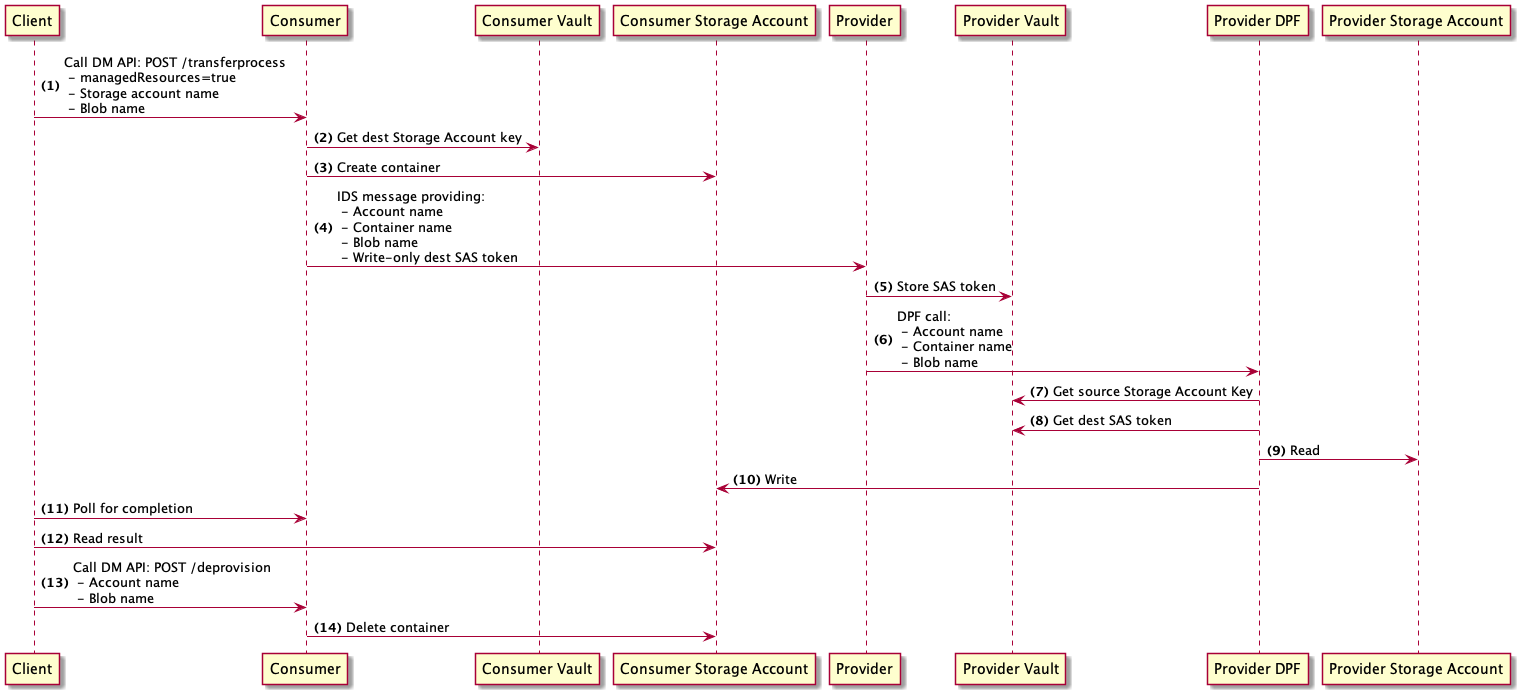
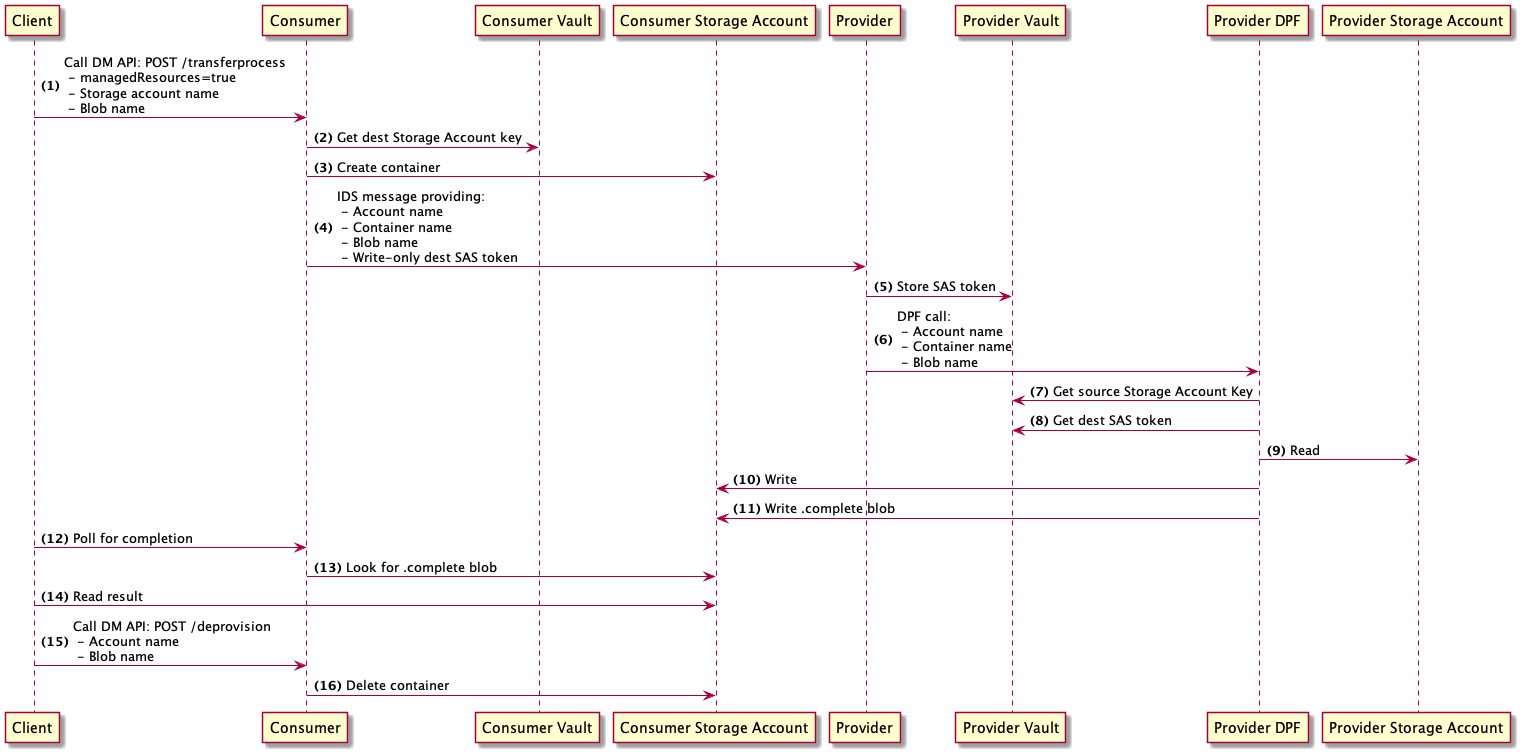
Added .complete to sequence diagram.

diff --git a/docs/developer/decision-records/2022-04-21-dpf-blob-data-transfer/README.md b/docs/developer/decision-records/2022-04-21-dpf-blob-data-transfer/README.md
@@ -30,8 +30,9 @@ after the client triggered the data deletion.
 9. The Provider DPF reads the data that needs to be transfered. The [AzureStorageDataSource](../../../../extensions/azure/data-plane/storage/src/main/java/org/eclipse/dataspaceconnector/azure/dataplane/azurestorage/pipeline/AzureStorageDataSource.java) provides the source data stream.  
 10. The Provider DPF writes the data to the destination blob so that the consumer can access the data.
 The [AzureStorageDataSink](../../../../extensions/azure/data-plane/storage/src/main/java/org/eclipse/dataspaceconnector/azure/dataplane/azurestorage/pipeline/AzureStorageDataSink.java) transfers the data to the blob destination.
-When the transfer is finished, the Provider DPF needs to write a blob called `.complete`.  
-11. In the meantime, the client polls the transfer status regularly on the consumer endpoint `/transferprocess/<PROCESS_ID>/state`. To determine if the transfer is completed, the consumer checks if a blob named `.complete` exists in the container.  
-12. When the transfer is finished, the client can read the blob.  
-13. Then, the client can call the Data Management API to destroy the data.  
-14. Consumer deletes the container containing the blob. The [ObjectStorageProvisioner](../../../../extensions/azure/blobstorage/blob-provision/src/main/java/org/eclipse/dataspaceconnector/provision/azure/blob/ObjectStorageProvisioner.java) is responsible for deprovisioning the container.
+11. When the transfer is finished, the Provider DPF writes a blob called `.complete`.
+12. In the meantime, the client polls the transfer status regularly on the consumer endpoint `/transferprocess/<PROCESS_ID>/state`.  
+13. To determine if the transfer is completed, the consumer checks if a blob named `.complete` exists in the container.  
+14. When the transfer is finished, the client can read the blob.  
+15. Then, the client can call the Data Management API to destroy the data.  
+16. Consumer deletes the container containing the blob. The [ObjectStorageProvisioner](../../../../extensions/azure/blobstorage/blob-provision/src/main/java/org/eclipse/dataspaceconnector/provision/azure/blob/ObjectStorageProvisioner.java) is responsible for deprovisioning the container.
